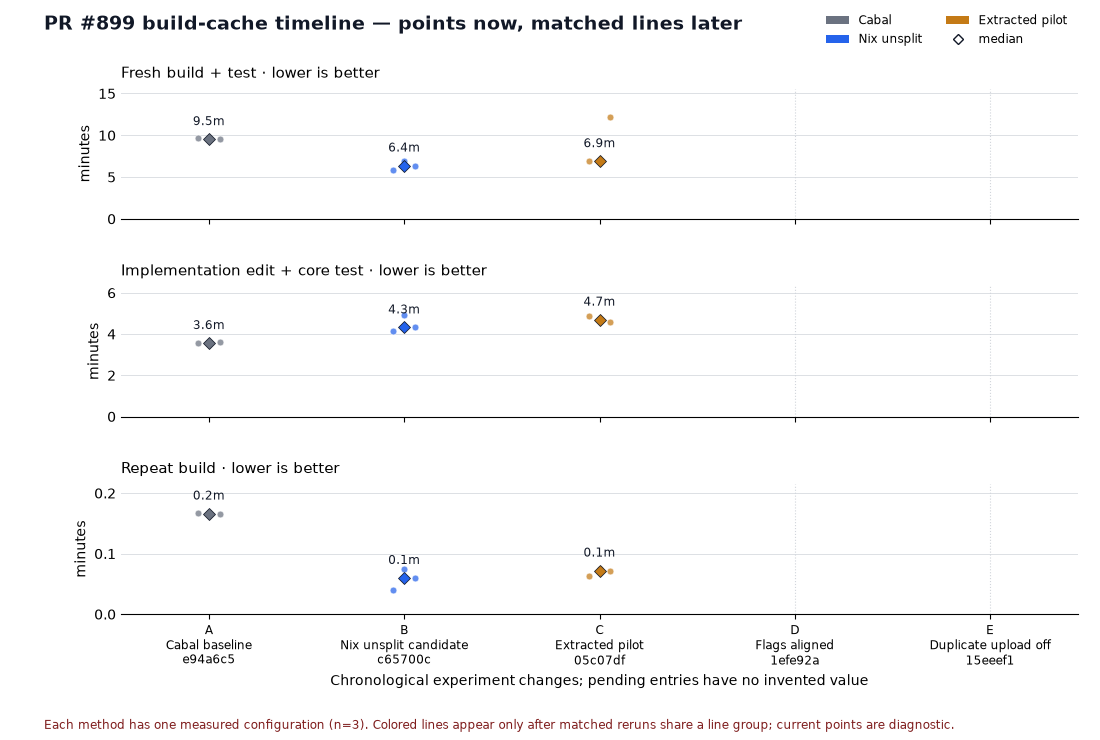
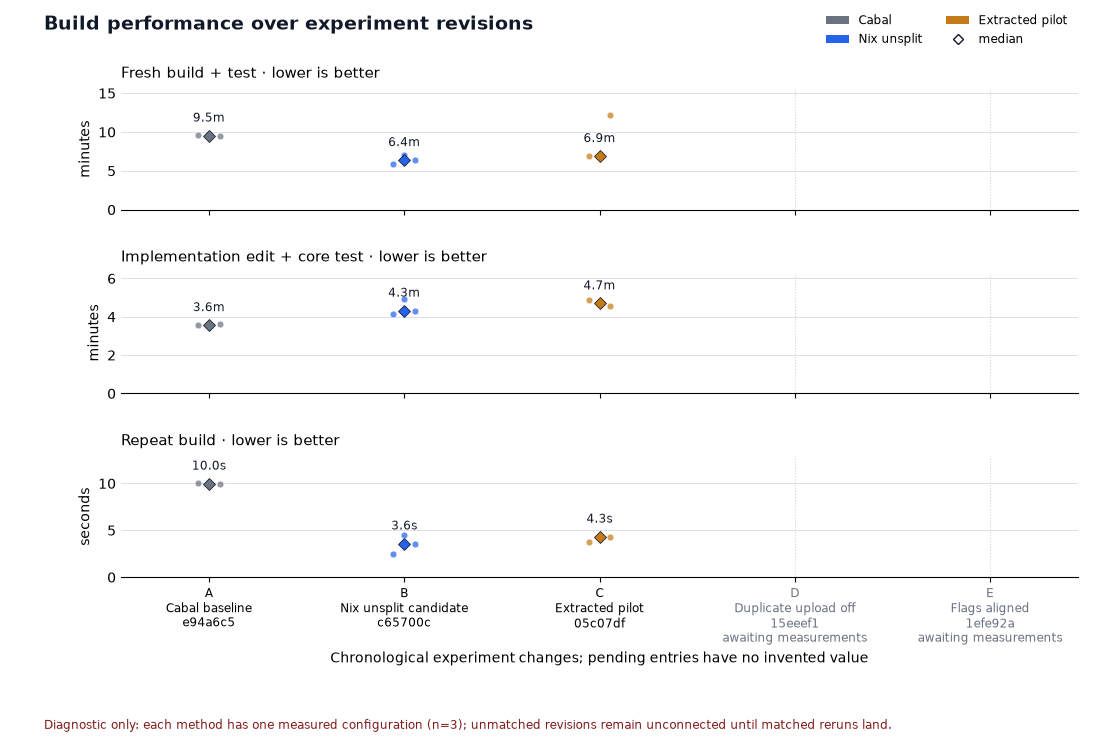
docs(build): clarify performance timeline pending revisions

diff --git a/docs/build-cache/performance.py b/docs/build-cache/performance.py
@@ -25,9 +25,9 @@ import numpy as np
 
 
 METRICS = (
-    ("fresh_route", "Fresh build + test", "Fresh build + test route total"),
-    ("edit_route", "Implementation edit + core test", "Implementation edit + core test"),
-    ("repeat_build", "Repeat build", "Repeat build"),
+    ("fresh_route", "Fresh build + test", "minutes", 60.0),
+    ("edit_route", "Implementation edit + core test", "minutes", 60.0),
+    ("repeat_build", "Repeat build", "seconds", 1.0),
 )
 
 SERIES = {
@@ -103,7 +103,7 @@ def render(data: dict, output: Path) -> None:
     )
     figure.patch.set_facecolor("#ffffff")
 
-    for axis, (route_name, title, _) in zip(axes, METRICS):
+    for axis, (route_name, title, unit, divisor) in zip(axes, METRICS):
         measured_by_group: dict[tuple[str, str], list[tuple[float, float]]] = defaultdict(list)
         all_values: list[float] = []
         for event_index, event in enumerate(events):
@@ -111,16 +111,16 @@ def render(data: dict, output: Path) -> None:
             if observations is None:
                 axis.axvline(event_index, color="#d1d5db", linestyle=":", linewidth=0.8, zorder=0)
                 continue
-            observations_minutes = [value / 60.0 for value in observations]
-            median_minutes = statistics.median(observations_minutes)
-            all_values.extend(observations_minutes)
+            display_observations = [value / divisor for value in observations]
+            display_median = statistics.median(display_observations)
+            all_values.extend(display_observations)
             color = SERIES[event["series"]]["color"]
             # Three small dots preserve replicated observations without
             # suggesting that unmatched configurations form a trend.
-            jitter = np.linspace(-0.055, 0.055, len(observations_minutes))
+            jitter = np.linspace(-0.055, 0.055, len(display_observations))
             axis.scatter(
                 [event_index + value for value in jitter],
-                observations_minutes,
+                display_observations,
                 s=24,
                 color=color,
                 alpha=0.72,
@@ -130,7 +130,7 @@ def render(data: dict, output: Path) -> None:
             )
             axis.plot(
                 event_index,
-                median_minutes,
+                display_median,
                 marker="D",
                 markersize=6.0,
                 color=color,
@@ -140,11 +140,11 @@ def render(data: dict, output: Path) -> None:
             )
             if event.get("line_group"):
                 measured_by_group[(event["series"], event["line_group"])].append(
-                    (event_index, median_minutes)
+                    (event_index, display_median)
                 )
             axis.annotate(
-                f"{median_minutes:.1f}m",
-                xy=(event_index, median_minutes),
+                f"{display_median:.1f}{unit[0]}",
+                xy=(event_index, display_median),
                 xytext=(0, 8),
                 textcoords="offset points",
                 ha="center",
@@ -165,7 +165,7 @@ def render(data: dict, output: Path) -> None:
                     zorder=2,
                 )
 
-        axis.set_ylabel("minutes")
+        axis.set_ylabel(unit)
         axis.set_title(f"{title} · lower is better", loc="left", fontsize=11, pad=8)
         axis.grid(axis="y", color="#d1d5db", linewidth=0.7, alpha=0.75)
         axis.set_axisbelow(True)
@@ -176,17 +176,19 @@ def render(data: dict, output: Path) -> None:
             axis.set_ylim(bottom=0, top=max(all_values) * 1.28)
 
     axes[-1].set_xticks(x_values)
-    axes[-1].set_xticklabels(
-        [
-            f"{event['id']}\n{event['label']}\n{event['commit']}"
-            for event in events
-        ],
-        fontsize=8.4,
-    )
+    tick_labels = [
+        f"{event['id']}\n{event['label']}\n{event['commit']}"
+        + ("\nawaiting measurements" if event["status"] == "pending" else "")
+        for event in events
+    ]
+    axes[-1].set_xticklabels(tick_labels, fontsize=8.4)
+    for tick, event in zip(axes[-1].get_xticklabels(), events):
+        if event["status"] == "pending":
+            tick.set_color("#6b7280")
     axes[-1].set_xlabel("Chronological experiment changes; pending entries have no invented value")
 
     figure.suptitle(
-        "PR #899 build-cache timeline — points now, matched lines later",
+        "Build performance over experiment revisions",
         fontsize=14,
         fontweight="bold",
         x=0.04,
@@ -196,7 +198,7 @@ def render(data: dict, output: Path) -> None:
     figure.text(
         0.04,
         0.015,
-        "Each method has one measured configuration (n=3). Colored lines appear only after matched reruns share a line group; current points are diagnostic.",
+        "Diagnostic only: each method has one measured configuration (n=3); unmatched revisions remain unconnected until matched reruns land.",
         fontsize=8.5,
         color="#7f1d1d",
     )
@@ -213,7 +215,7 @@ def render(data: dict, output: Path) -> None:
         ncol=2,
         fontsize=8.4,
     )
-    figure.subplots_adjust(left=0.11, right=0.98, top=0.88, bottom=0.17, hspace=0.52)
+    figure.subplots_adjust(left=0.11, right=0.98, top=0.88, bottom=0.22, hspace=0.52)
     output.parent.mkdir(parents=True, exist_ok=True)
     figure.savefig(output, dpi=100, facecolor="white")
     plt.close(figure)
@@ -230,9 +232,9 @@ def main() -> None:
     for event in data["timeline"]:
         if event["status"] == "measured":
             values = []
-            for route_name, _, _ in METRICS:
+            for route_name, _, _, divisor in METRICS:
                 observations = timeline_observations(data, event, route_name)
-                values.append(f"{route_name}={statistics.median(observations) / 60:.3f}m")
+                values.append(f"{route_name}={statistics.median(observations) / divisor:.3f}{'m' if divisor == 60.0 else 's'}")
             print(f"{event['id']} {event['label']}: {', '.join(values)}")
 
 

diff --git a/docs/build-cache/performance.md b/docs/build-cache/performance.md
@@ -16,7 +16,7 @@ https://raw.githubusercontent.com/neohaskell/NeoHaskell/<PERFORMANCE_COMMIT>/doc
 
 The figure is an append-only timeline. A, B, and C are the one measured
 configuration currently available for Cabal, the Nix unsplit candidate, and the
-extracted pilot. D and E are pending flag-alignment and duplicate-upload
+extracted pilot. D and E are pending duplicate-upload and flag-alignment
 changes, so they have no values. Each measured point is the median of three
 observations; the small dots show those observations. A colored line is drawn
 only when later points share an explicitly matched configuration group. The
@@ -103,8 +103,8 @@ No timing is invented for changes that have not had a matched rerun.
 
 | Commit | Technique | Platform | Cache condition | n / observations / median | Status | Evidence |
 |---|---|---|---|---|---|---|
-| [`1efe92a`](https://github.com/neohaskell/NeoHaskell/commit/1efe92a) | Align candidate local-package flags with baseline: explicit O1, split-sections disabled, HIE enabled | Linux + macOS | Dependencies untouched; matched rerun required | `— / — / —` | Pending measurement | [commit](https://github.com/neohaskell/NeoHaskell/commit/1efe92a) |
 | [`15eeef1`](https://github.com/neohaskell/NeoHaskell/commit/15eeef1348630b6e96a7a9cba472af8cc7deea53) (same patch as [`f64fe87`](https://github.com/neohaskell/NeoHaskell/commit/f64fe870ec8157ebb9764a143880103717262bd7)) | Disable duplicate producer upload: `use-gha-cache: disabled`, `use-flakehub: disabled` | Linux + macOS | Upstream substituters and same-run artifact path retained | `— / — / —` | Pending measurement | [15eeef1](https://github.com/neohaskell/NeoHaskell/commit/15eeef1348630b6e96a7a9cba472af8cc7deea53) |
+| [`1efe92a`](https://github.com/neohaskell/NeoHaskell/commit/1efe92a) | Align candidate local-package flags with baseline: explicit O1, split-sections disabled, HIE enabled | Linux + macOS | Dependencies untouched; matched rerun required | `— / — / —` | Pending measurement | [commit](https://github.com/neohaskell/NeoHaskell/commit/1efe92a) |
 
 ## Updating the log
 
